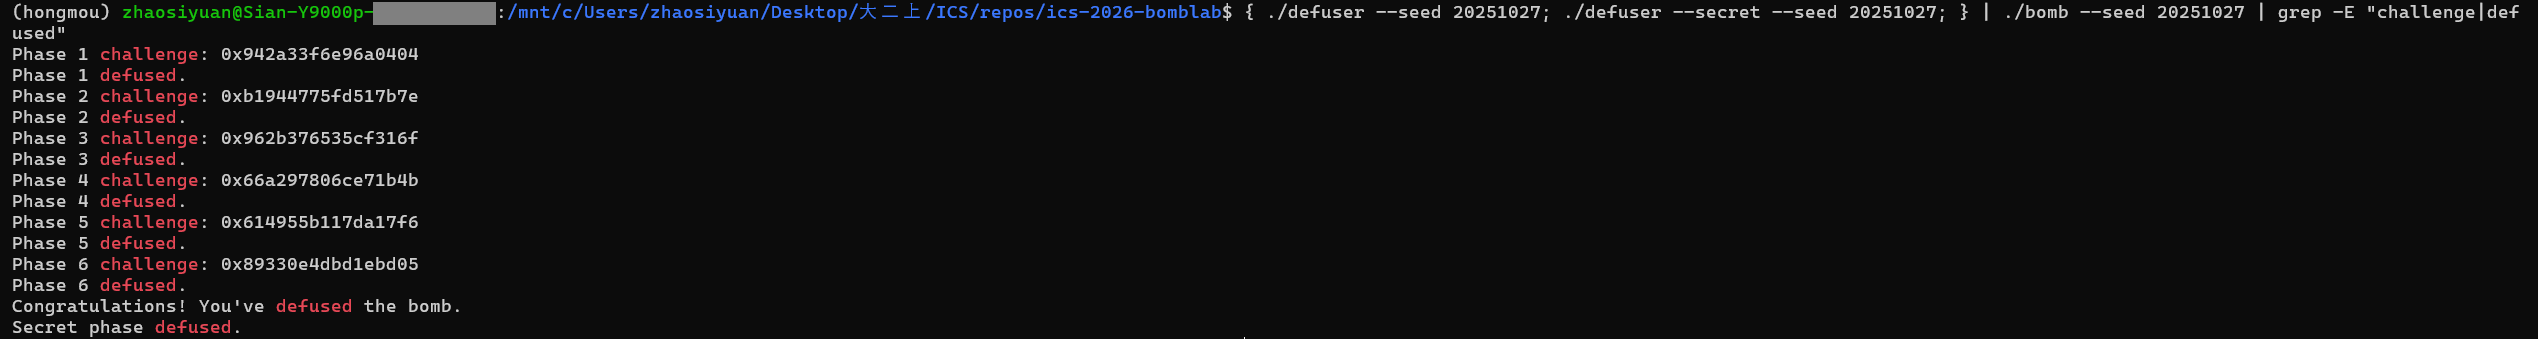
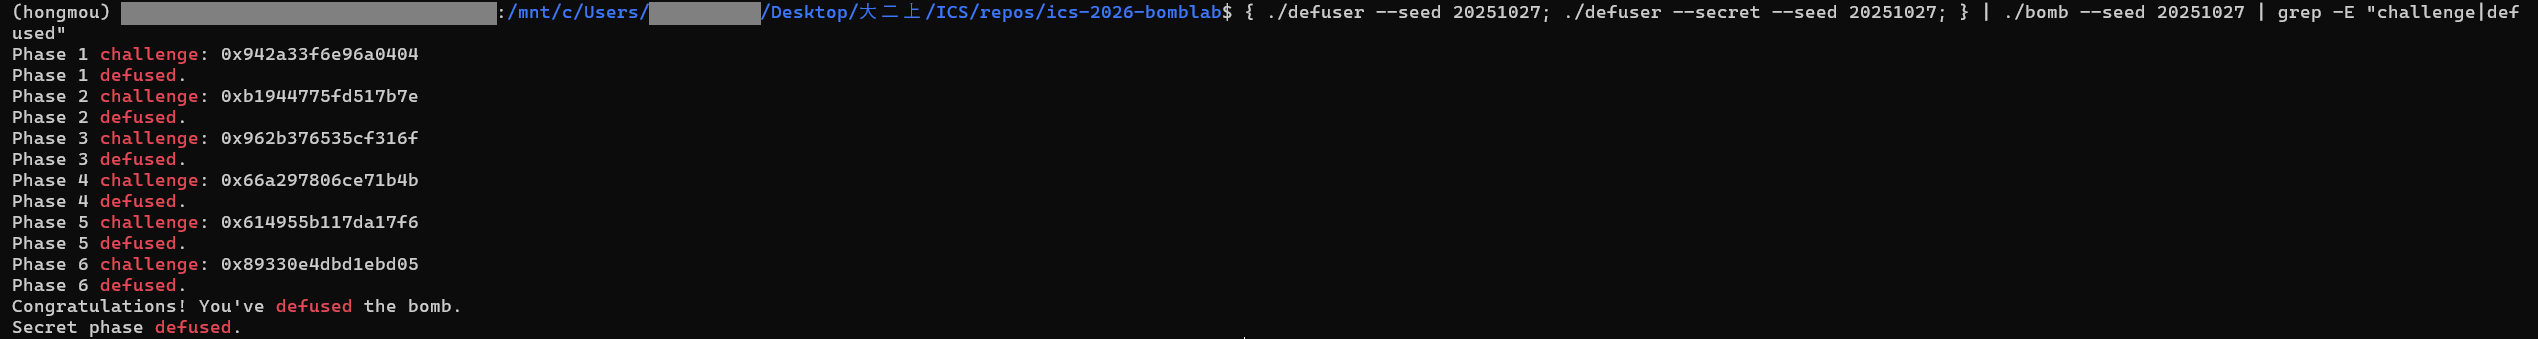
docs: add diagrams and tool usage to report, mask personal info in screenshots

Changed region(s): [[0.0311, 0.0, 0.1556, 0.0885], [0.249, 0.0, 0.3113, 0.0885]]

diff --git a/report.md b/report.md
@@ -88,6 +88,24 @@ sete %al                # 相等返回 1，main 收到 0 就引爆
 
 所以每关先从 `valid_u32_fields` 的参数和格式串确定口令有几个数，再从最后的比较倒推期望值是怎么由 challenge（下文记作 `c`）算出来的。`c` 是 64 位的，各关先对它做 64 位右移，再取低 32 位，之后的运算都是 32 位、按模 2³² 回绕，所以 C 代码里先移位、再转成 `uint32_t` 计算。
 
+各关反复出现的关键指令：
+
+| 指令 | 含义 | 出现在 |
+| ---- | ---- | ------ |
+| `lea (%rdi,%rdi,2),%eax`、`lea 0x6fcd(%rdi,%rdi,4),%eax` | 只做地址形式的算术，不访问内存：`3*rdi`、`5*rdi + 0x6fcd` | 各关 |
+| `shr $n,%rax`、`and $mask,%eax`、`movzbl %al,%eax` | 逻辑右移；取低若干位；取低 8 位 | 各关从 `c` 中取位段 |
+| `mov %edi,%esi` 等写 32 位寄存器的指令 | 只取低 32 位，并把 64 位寄存器的高 32 位清零 | 各关 |
+| `cmp` 加 `sete %al` / `jne` | 比较；相等时返回值 `al` 为 1 / 不相等就跳到失败 | 各关的检查 |
+| `ja`、`jb`、`jbe` | 无符号比较后的跳转 | 第 3 关（下标越界）、第 4 关（往左或往右）、Honor（长度检查） |
+| `mov -0x40(%rbp,%rdx,4),%esi` | 基址 + 下标 × 4，即数组元素 `a[rdx]` | 第 2 关 |
+| `jmp *0x405820(,%rax,8)` | 从表里取出地址再跳过去（跳转表） | 第 3 关 |
+| `push %rbx` … `mov -0x8(%rbp),%rbx` | 被调用者保管寄存器的保存和恢复，递归时每层各有一份 | 第 4 关 |
+| `mov (%rdx),%rdx`、`mov 0x8(%rdx),%esi` | 按偏移读结构体字段，沿 `next` 指针走链表 | 第 5 关 |
+| `call *0x405e00(,%rax,8)` | 从表里取出函数地址再调用（函数指针） | 第 6 关 |
+| `rol $0x3,%eax`、`ror $0x2,%eax` | 循环左移、循环右移 | 第 6 关 |
+| `rep stos` | 把一段内存清零，相当于 `memset` | Honor |
+| `cmpl $0x4e45504f,-0xb0(%rbp)` | 比较 4 个字节，按小端序就是字符串 `"OPEN"` | Honor |
+
 ### 2.1 第 1 关：函数调用
 
 口令 1 个数（`"%u"`）。期望值是 `p1_compute(c)` 的返回值：
@@ -117,6 +135,22 @@ step0 = ((uint32)(c >> 16) ^ 0x5c70) + 4*lo
 口令  = (3*step0 + step2) ^ 0x4147
 ```
 
+数据流图：
+
+```mermaid
+flowchart LR
+    C["challenge c"] --> HI["hi：c 的高 32 位"]
+    C --> LO["lo：c 的低 32 位"]
+    C --> S16["c 右移 16 位，取低 32 位"]
+    HI --> S2["p1_step2(hi, lo)"]
+    LO --> S2
+    LO --> S0["p1_step0(lo, c 右移 16)"]
+    S16 --> S0
+    S0 --> S1["p1_step1(step0, step2)"]
+    S2 --> S1
+    S1 --> A["口令"]
+```
+
 例子：c = `0x942a33f6e96a0404`，step2 = 1427398711，step0 = 3651061034，口令 3790663410。GDB 停在 `0x4020e0`（比较指令）时 `eax` 是 3790663410。
 
 ### 2.2 第 2 关：数组和循环
@@ -139,6 +173,21 @@ add $0x1,%rdx ; cmp $0x6,%rdx ; jne
 ```text
 a[0] = 3 * ((c >> 23) & 0xff)
 a[i] = 3 * ((((c >> (i + 12)) & 0x3f) + i) ^ a[i-1])，i = 1..5
+```
+
+控制流图：
+
+```mermaid
+flowchart TD
+    S["sscanf 读入 6 个数 a[0..5]"] --> C0{"a[0] 等于 3 * ((c 右移 23) & 0xff) ？"}
+    C0 -- 否 --> X["返回 0，爆炸"]
+    C0 -- 是 --> I["i = 1"]
+    I --> C1{"a[i] 等于 3 * ((((c 右移 (i+12)) & 0x3f) + i) ^ a[i-1]) ？"}
+    C1 -- 否 --> X
+    C1 -- 是 --> N["i = i + 1"]
+    N --> E{"i 等于 6 ？"}
+    E -- 否 --> C1
+    E -- 是 --> OK["返回 1，通过"]
 ```
 
 例子：c = `0xb1944775fd517b7e`，`(c >> 23) & 0xff` = 250，a[0] = 750；i = 1 时 `(c >> 13) & 0x3f` = 11，`(11 + 1) ^ 750` = 738，a[1] = 2214；依次得到 6627、19794、59349、178152。GDB 在两处比较指令（`0x40216a`、`0x40218a`）看到的 6 个期望值相同。
@@ -169,6 +218,20 @@ notrack jmp *0x405820(,%rax,8)      # 按跳转表跳转
 
 各分支多用 `lea`，例如 `lea 0x6fcd(%rdi,%rdi,4),%eax` 就是 `5v + 0x6fcd`。代码里用 `switch` 写。
 
+控制流图：
+
+```mermaid
+flowchart LR
+    C["challenge c"] --> X["下标 = c & 7，也是第一个数"]
+    C --> V["v = (c 右移 32) ^ (c 右移 3)，取低 32 位"]
+    X --> J{"下标大于 7 ？"}
+    J -- 是 --> D["default：返回 0"]
+    J -- 否 --> T["jmp *0x405820(,下标,8)"]
+    T --> K["p3_case_N(v)，对应关系见上表"]
+    V --> K
+    K --> R["第二个数"]
+```
+
 例子：c = `0x962b376535cf316f`，下标 7，v = 814928200，跳到 `p3_case_0`，第二个数 `5v + 0x6fcd` = 4074669621。GDB 停在 `0x40225d`（间接跳转）时看到下标 7、表项 `0x402270`。
 
 ### 2.4 第 4 关：递归
@@ -189,6 +252,20 @@ cmp %edi,%eax ; jb 402370                                  # target < mid 往左
 ```
 
 这是在 0..127 里二分查找 target。找到时返回 `(mid + 0x7f) ^ key`；每往回返回一层，把下层结果乘 3、异或本层的 `mid + key`，往左走的层再异或 7，往右走的层再异或 0x1d。`ebx` 是被调用者保管的寄存器，每层在开头压栈、结尾恢复，所以每层用的都是自己的 `mid + key`；`key` 在 `ecx` 里，各层都不改它。
+
+控制流图：
+
+```mermaid
+flowchart TD
+    S["p4_walk(target, lo, hi, key)"] --> M["mid = lo + ((hi - lo) 右移 1)"]
+    M --> E{"mid 等于 target ？"}
+    E -- 是 --> B["返回 (mid + 0x7f) ^ key"]
+    E -- 否 --> L{"target 小于 mid ？（jb，无符号）"}
+    L -- 是 --> RL["r = p4_walk(target, lo, mid - 1, key)"]
+    RL --> FL["返回 (3r ^ (mid + key)) ^ 0x7"]
+    L -- 否 --> RR["r = p4_walk(target, mid + 1, hi, key)"]
+    RR --> FR["返回 (3r ^ (mid + key)) ^ 0x1d"]
+```
 
 例子：c = `0x66a297806ce71b4b`，target = 75，key = 1719359926。查找路径 63 → 95 → 79 → 71 → 75，最底层返回 1719359868，逐层返回 1426675092、2573687486、2857191976、2560395152。GDB 停在 `0x402390` 时用 `bt` 看到 5 层 `p4_walk`，返回地址依次对应右、左、左、右，和路径一致。
 
@@ -222,7 +299,17 @@ node = p5_heads[c & 7]
 acc  = ((uint32)(c >> 6) ^ (uint32)(c >> 32)) ^ 0x488a
 acc  = (3*acc + node->weight) ^ node->value
 重复 (c >> 3) & 3 次：node = node->next；acc = (3*acc + node->weight) ^ node->value
-口令 = acc  node->value
+口令 = 两个数：acc 和最后那个结点的 value
+```
+
+下面是例子中实际走过的链表（数据结构图）：
+
+```mermaid
+flowchart LR
+    H["p5_heads[6]"] --> A["0x405c10：value 0x2f，weight 0xf51"]
+    A -- next --> B["0x405bb0：value 0x481，weight 0x34f2"]
+    B -- next --> D["0x405bc0：value 0xb43，weight 0xa93f"]
+    D --> R["第二个数 = 0xb43 = 2883"]
 ```
 
 例子：c = `0x614955b117da17f6`，起点 `p5_heads[6]` = `0x405c10`，走 2 步，经过 `0x405bb0` 到 `0x405bc0`（value 0xb43 = 2883），口令 `1767913273 2883`。GDB 在循环里看到的结点地址和两个期望值都相同。
@@ -258,6 +345,21 @@ add $0x76a3,%eax                                 # 口令 = r + 0x76a3
 
 C 没有循环移位运算符，用 `(v << 3) | (v >> 29)` 这样的写法。代码里也建了一个同样顺序的函数指针数组。
 
+数据流图：
+
+```mermaid
+flowchart LR
+    C["challenge c"] --> V["v = (c 右移 6) ^ (c 右移 32)，取低 32 位"]
+    C --> I["i = c & 7"]
+    C --> J["j = (c 右移 3) & 7"]
+    V --> F1["第一次间接调用 p6_ops[i](v)"]
+    I --> F1
+    F1 --> X["异或 0x2f31"]
+    X --> F2["第二次间接调用 p6_ops[j]"]
+    J --> F2
+    F2 --> A["加 0x76a3，得到口令"]
+```
+
 例子：c = `0x89330e4dbd1ebd05`，`c & 7` = 5 → `p6_op_4`，`(c >> 3) & 7` = 0 → `p6_op_1`；v = 3217519801，第一次调用得 1878121774，异或后 1878127135，第二次调用得 4054011760，加 0x76a3 得 4054042131。GDB 在两条 `call *` 处用 `info symbol` 确认目标是 `p6_op_4` 和 `p6_op_1`。
 
 ### 2.7 Honor
@@ -271,6 +373,28 @@ call strlen ; sub $0x24,%rax ; cmp $0x7f,%rax ; jbe   # 长度在 36 到 163 之
 call secret_copy                          # 把整行逐字节复制进结构体，不检查长度
 cmpl $0x4e45504f,-0xb0(%rbp)              # 结构体偏移 0x20 处必须是 0x4e45504f
 lea -0xac(%rbp),%rdi ; call secret_phase  # 偏移 0x24 起的字符串交给 secret_phase
+```
+
+栈上结构体（起点 `rbp-0xd0`）和第七行的对应关系：
+
+| 结构体偏移 | 0x00–0x1f | 0x20–0x23 | 0x24 起 |
+| ---------- | --------- | --------- | ------- |
+| 第七行的内容 | 32 个 `A` | `OPEN` | 一个空格和 3 个数 `a b d` |
+| 程序怎么检查 | 不检查 | `cmpl $0x4e45504f` | 交给 `secret_phase` |
+
+控制流图：
+
+```mermaid
+flowchart TD
+    L["第七行"] --> N{"长度在 36 到 163 之间？"}
+    N -- 否 --> X["失败"]
+    N -- 是 --> CP["secret_copy 复制进栈上结构体"]
+    CP --> T{"偏移 0x20 处是 OPEN ？"}
+    T -- 否 --> X
+    T -- 是 --> SP["secret_phase(偏移 0x24 起的字符串)"]
+    SP --> K{"a、b、d 三个数都对？"}
+    K -- 否 --> X
+    K -- 是 --> OK["Secret phase defused."]
 ```
 
 `0x4e45504f` 按小端序的字节是 `4f 50 45 4e`，即 `"OPEN"`。`secret_copy` 不管第一个字段多长，所以第七行的前 32 个字符填满第一个字段，第 33 到 36 个字符写进偏移 0x20 的字段，后面的部分在偏移 0x24。这和 `teaching/07_stack_copy.c` 里同一结构体内相邻字段被覆盖的情况相同，整行最长 163 个字符加结尾的 `\0`，不会超出这 164 字节，也不涉及返回地址。
@@ -294,9 +418,22 @@ xor %edx,%eax ; cmp -0x24(%rbp),%eax                 # d = b ^ (x_fold + a + 0xe
 
 ---
 
-## 三、参考资料与 AI 使用说明
+## 三、参考资料与辅助工具
 
-- 实验文档和模板仓库的 README、`tutor/`、`teaching/07_stack_copy.c`
-- 《深入理解计算机系统》第 3 章（过程调用、数组、switch、数据结构）
-- GDB 文档：https://www.sourceware.org/gdb/documentation/
-- AI 使用说明：本次实验使用了 Claude Code（Claude Opus 5.5）。七关的反汇编分析、`defuser.c` 的实现、验证脚本和本报告的初稿由它完成，各关的数值例子来自它在 GDB 里的实际运行。
+### 3.1 参考资料
+
+- 实验文档：https://ics-26fall-fdu.github.io/labs/lab2-bomb-lab/ ，主要用到“实验引导”里的寄存器约定和 GDB 用法
+- 模板仓库的 `README.md`、`tutor/README.md`，以及 `teaching/07_stack_copy.c`（Honor 的相邻字段覆盖）
+- 《深入理解计算机系统》第 3 版第 3 章，各关用到的知识点在：3.4 访问信息、3.5 算术和逻辑操作（`lea`、移位）、3.6 控制（条件跳转、switch 和跳转表）、3.7 过程（参数寄存器、栈帧、被调用者保管寄存器、递归）、3.8 数组分配和访问、3.9 异质的数据结构（结构体）、3.10 控制与数据的结合（指针、函数指针、GDB、缓冲区溢出）
+
+### 3.2 辅助工具及用途
+
+本次实验使用了 Claude Code（模型 Claude Opus 5.5），在 WSL 中运行。它做了这些事：
+
+- 用 `objdump` 导出各关汇编，用 GDB 读出跳转表、链表、函数指针表等数据，分析出各关的计算关系；
+- 编写 `defuser.c` 中六关和 Honor 的全部求解函数；
+- 验证：用 GDB 在每关的比较指令处核对期望值，写脚本测试随机 challenge 和 seed；
+- 写本报告的初稿，并另开一个检查助手，对照实验文档独立检查报告和仓库；
+- 给两张截图里的用户名、主机名和路径中的个人信息打码。
+
+所以本报告第二部分的分析和 `defuser.c` 的代码是 AI 生成的，不是我独立完成的分析。我自己做的是：在 GitHub 上用模板创建仓库、确认学号、在自己的终端里运行命令并截图、对照实验文档逐项检查提交要求、推送代码和 `final` 标签。
